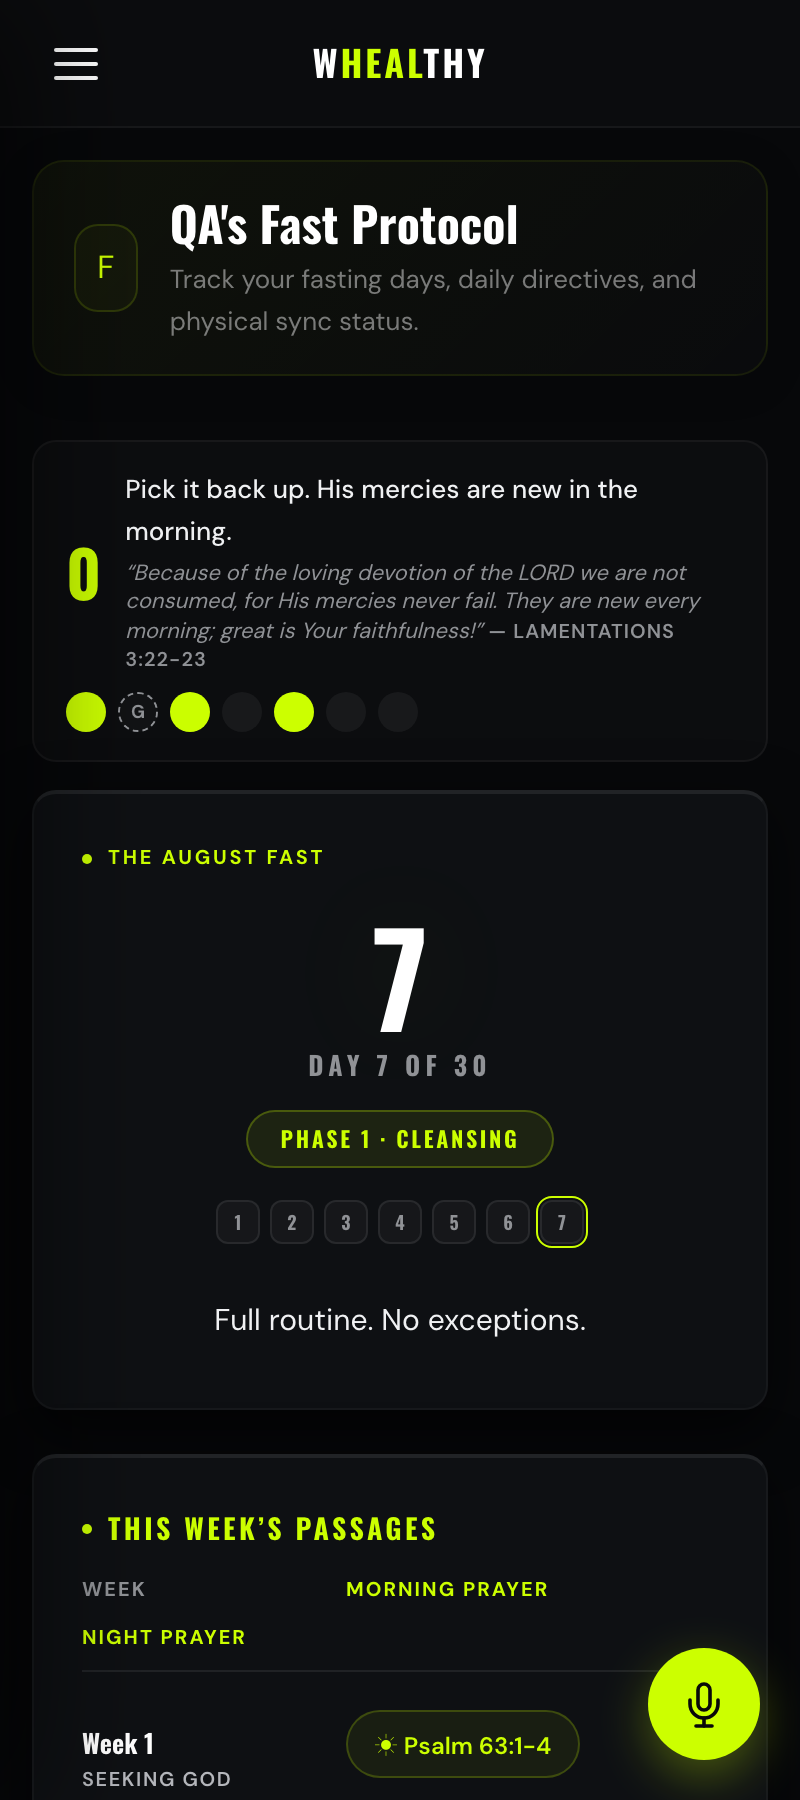
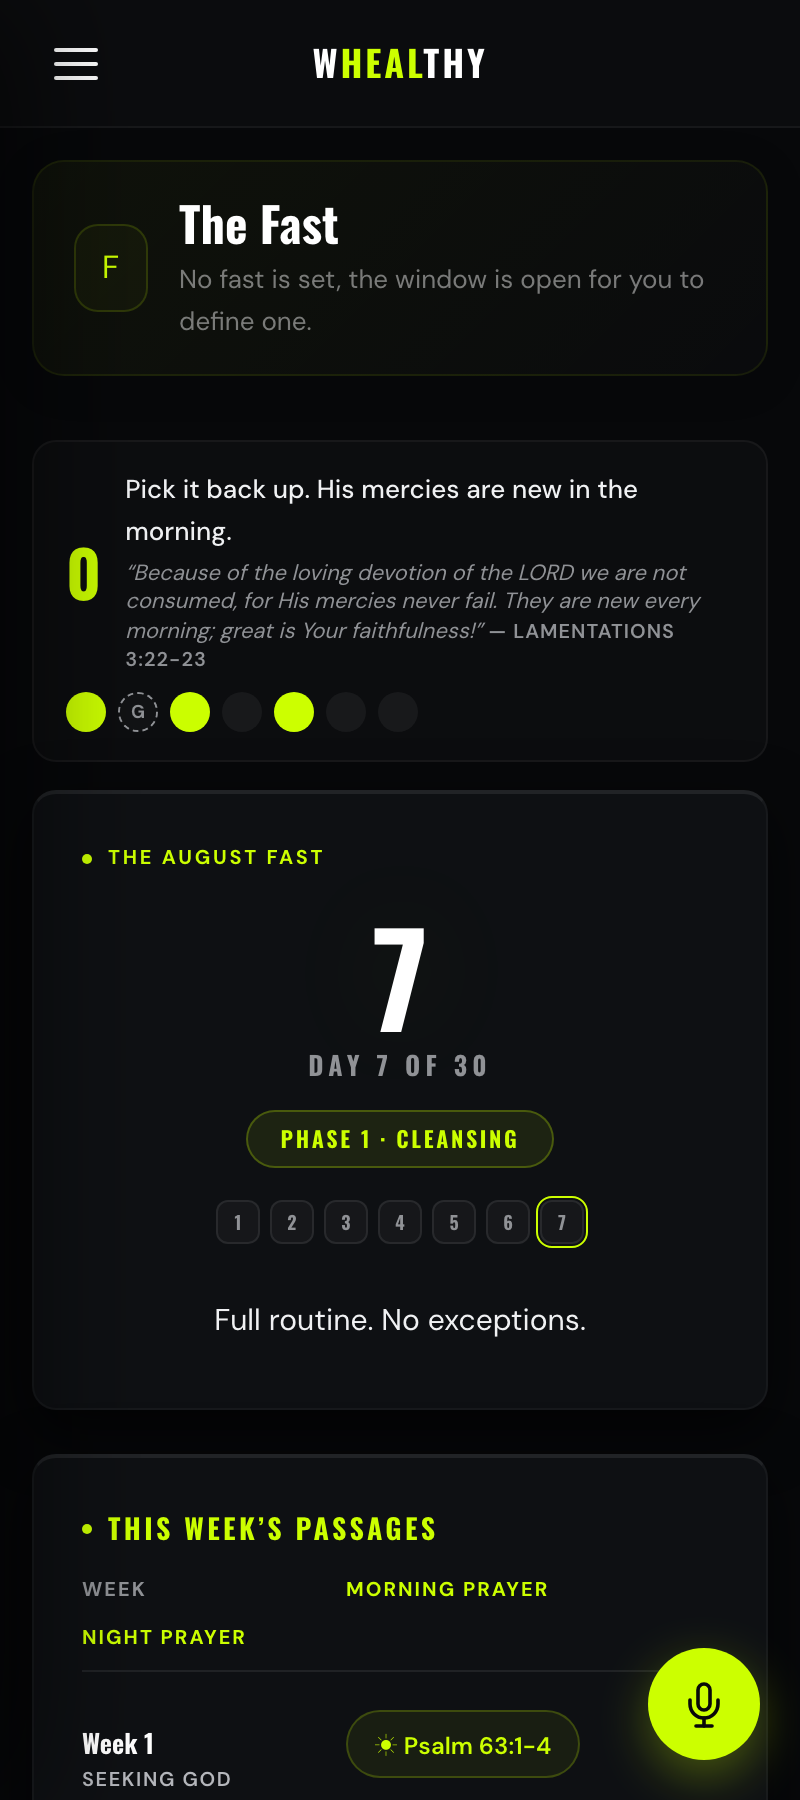
chore: replace mock screenshots with real-data board screenshots, fix singular count grammar

Changed region(s): [[0.2188, 0.0933, 0.6562, 0.1867], [0.125, 0.1244, 0.1875, 0.1556]]

diff --git a/index.html b/index.html
@@ -11476,7 +11476,7 @@ window.loadCohortBoard = async function(cohortId) {
         const isMe = m.name === myDisplayName;
         html += `<div style="display:flex; justify-content:space-between; align-items:center; padding:10px 14px; background:rgba(255,255,255,0.02); border:1px solid ${isMe ? 'var(--lime)' : 'rgba(255,255,255,0.06)'}; border-radius:8px; ${isMe ? 'color:var(--lime); font-weight:700;' : ''}">` +
           `  <span>${escapeHtml(m.name)}${isMe ? ' (You)' : ''}</span>` +
-          `  <span style="font-family:'Oswald',sans-serif; font-size:14px; letter-spacing:0.02em;">${m.days_kept} days kept</span>` +
+          `  <span style="font-family:'Oswald',sans-serif; font-size:14px; letter-spacing:0.02em;">${m.days_kept} ${m.days_kept === 1 ? 'day' : 'days'} kept</span>` +
           `</div>`;
       });
       html += `</div>`;
